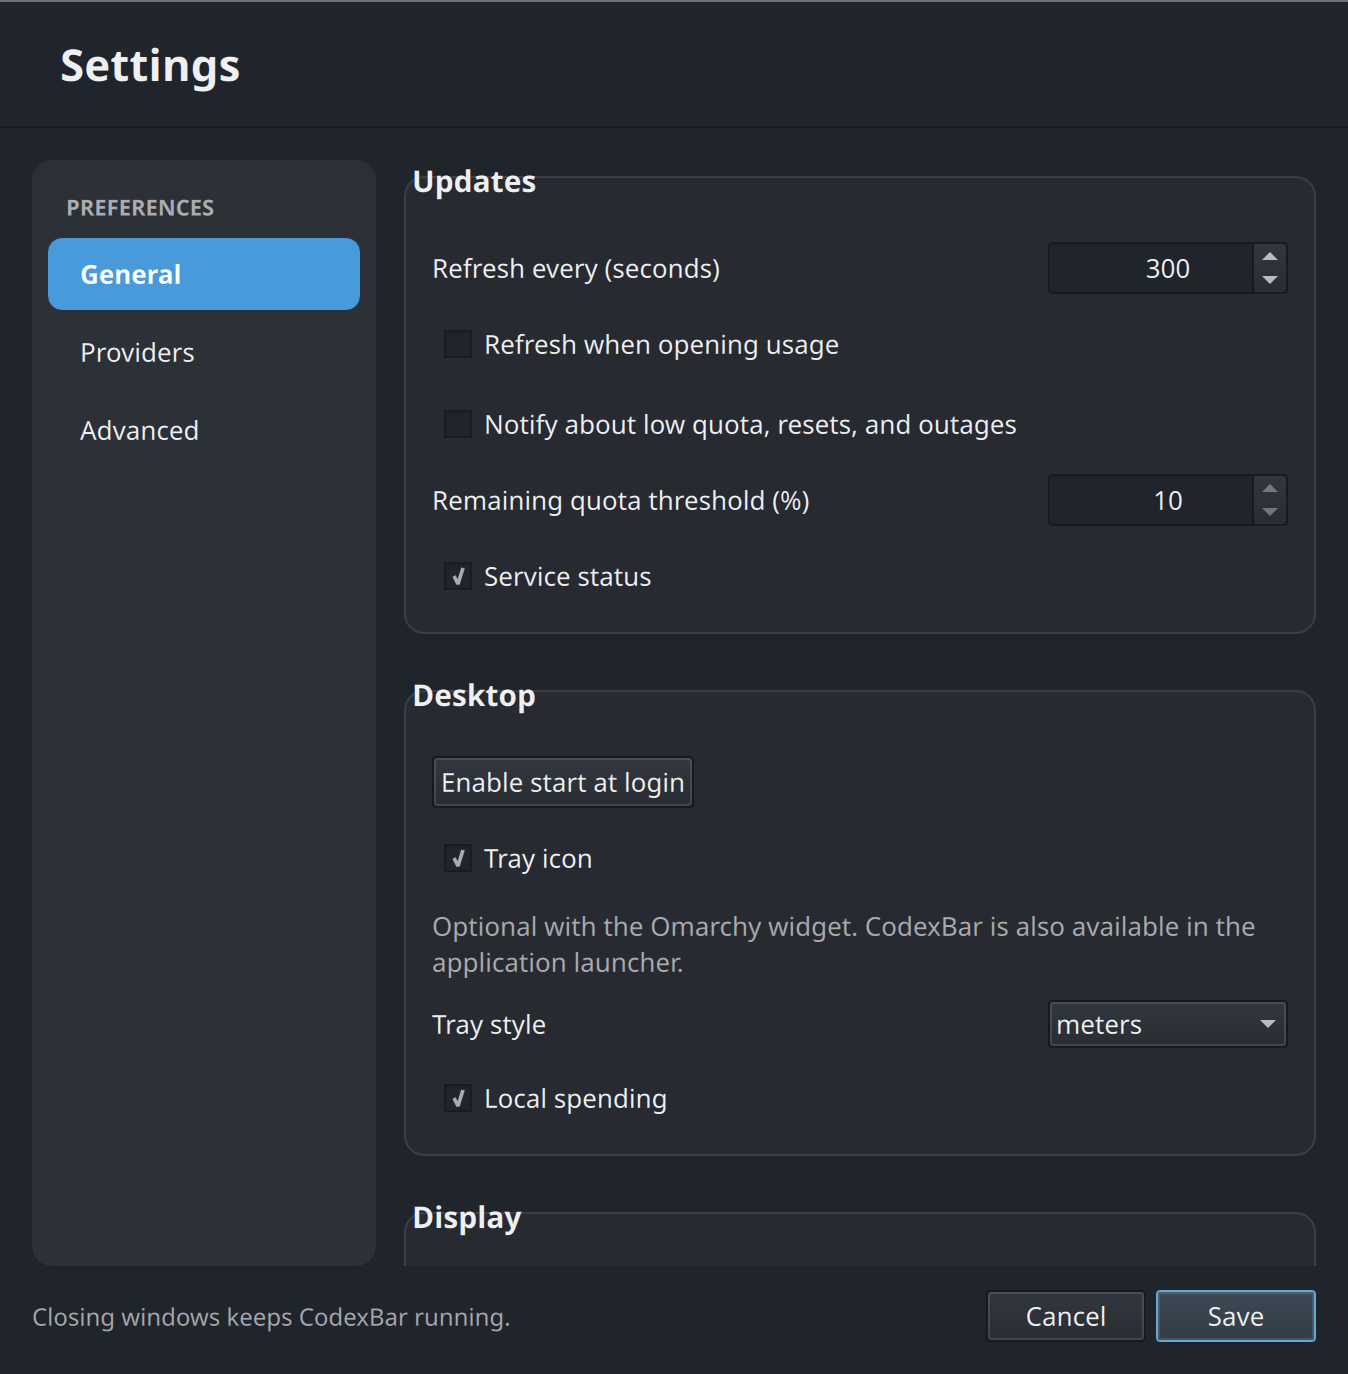
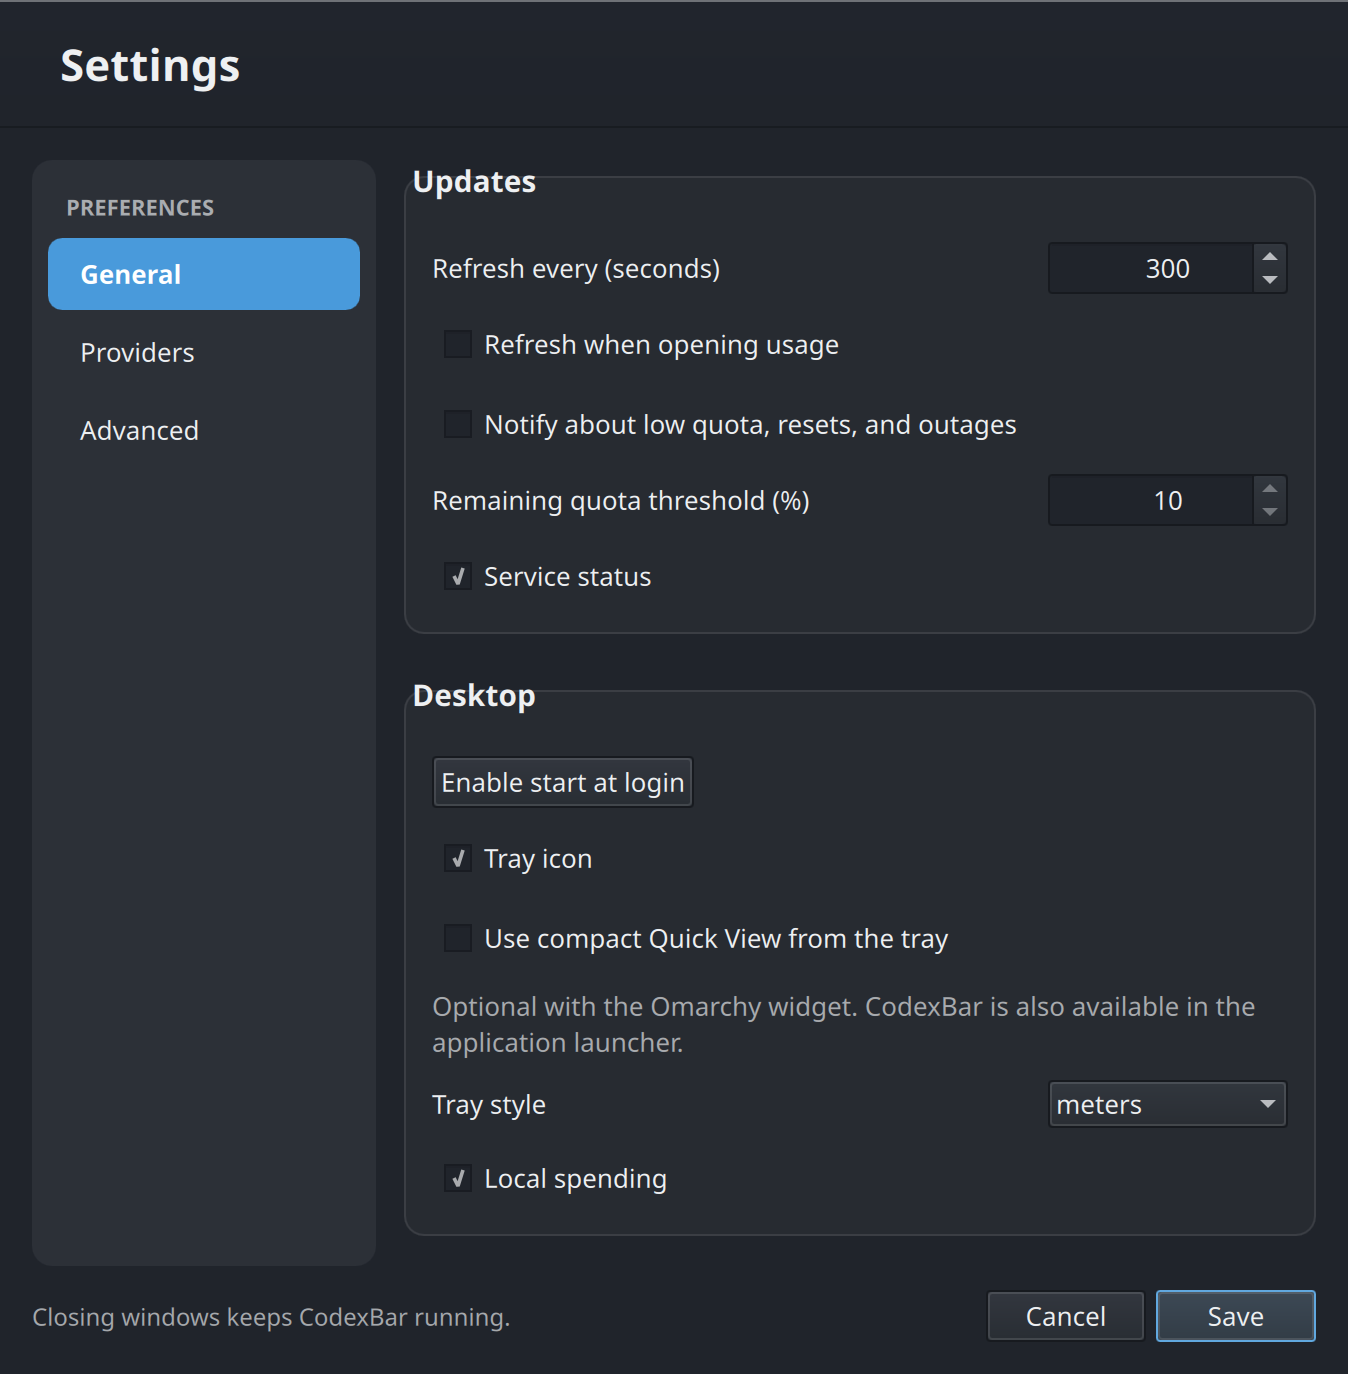
Make Linux Quick View opt-in

diff --git a/Integrations/Linux/qml/SettingsWindow.qml b/Integrations/Linux/qml/SettingsWindow.qml
@@ -41,7 +41,7 @@ ApplicationWindow {
         reset.currentIndex = reset.model.indexOf(s.resetDisplay);
         trayStyle.currentIndex = trayStyle.model.indexOf(s.trayStyle);
         theme.checked = s.followOmarchyTheme; pace.checked = s.showPace; warnings.checked = s.warningColors;
-        refreshOnOpen.checked = s.refreshOnOpen;
+        refreshOnOpen.checked = s.refreshOnOpen; compactQuickView.checked = s.compactQuickView;
         tray.checked = s.showTray; executable.text = s.executable; feedback = "";
     }
     Shortcut { sequence: "Escape"; onActivated: window.hide() }
@@ -167,6 +167,7 @@ ApplicationWindow {
                                 onClicked: desktop.setLaunchAtLogin(!desktop.launchAtLogin)
                             }
                             Option { id: tray; text: "Tray icon" }
+                            Option { id: compactQuickView; text: "Use compact Quick View from the tray" }
                             Label { text: "Optional with the Omarchy widget. CodexBar is also available in the application launcher."; Layout.fillWidth: true; wrapMode: Text.Wrap; opacity: 0.65 }
                             RowLayout {
                                 Layout.fillWidth: true
@@ -220,7 +221,8 @@ ApplicationWindow {
                         notifyThreshold: threshold.value, refreshSeconds: interval.value,
                         providerOrder: window.providerOrder, quotaDisplay: quota.currentText, resetDisplay: reset.currentText,
                         followOmarchyTheme: theme.checked, showPace: pace.checked, warningColors: warnings.checked, trayStyle: trayStyle.currentText,
-                        refreshOnOpen: refreshOnOpen.checked, showTray: tray.checked, executable: executable.text.trim()})) window.feedback = "Settings saved";
+                        refreshOnOpen: refreshOnOpen.checked, showTray: tray.checked, compactQuickView: compactQuickView.checked,
+                        executable: executable.text.trim()})) window.feedback = "Settings saved";
                 }
             }
         }

diff --git a/Integrations/Linux/qml/QuickView.qml b/Integrations/Linux/qml/QuickView.qml
@@ -357,7 +357,7 @@ ApplicationWindow {
                         width: parent.width
                         spacing: 8
                         Rectangle { Layout.fillWidth: true; height: 1; color: window.dividerColor }
-                        Label { text: "Cost"; color: window.primaryText; font.pixelSize: 15; font.weight: Font.DemiBold }
+                        Label { text: "Cost across accounts"; color: window.primaryText; font.pixelSize: 15; font.weight: Font.DemiBold }
                         Label {
                             text: window.selectedCost ? "Today " + Usage.money(window.selectedCost.today) +
                                 "  ·  Last 30 days " + Usage.money(window.selectedCost.month) : "Reading local history…"

diff --git a/Integrations/Linux/qml/Main.qml b/Integrations/Linux/qml/Main.qml
@@ -9,8 +9,8 @@ QtObject {
         target: desktop
         function onWindowRequested(page) {
             var target = page === "settings" ? root.preferences :
-                page === "usage" ? root.quickView : root.dashboard;
-            if (page === "dashboard" || page === "spending")
+                page === "quick-view" ? root.quickView : root.dashboard;
+            if (page === "usage" || page === "dashboard" || page === "spending")
                 root.dashboard.selectedTab = page === "spending" ? 1 : 0;
             target.show();
             target.raise();

diff --git a/Integrations/Linux/DesktopController.cpp b/Integrations/Linux/DesktopController.cpp
@@ -98,7 +98,7 @@ bool DesktopController::validate(QVariantMap &values) {
         !QStringList{"meters", "icon"}.contains(values.value("trayStyle").toString())) {
         m_configError = "Unsupported display preference."; return false;
     }
-    for (const auto &key : {"allAccounts", "showIdentity", "showCosts", "showStatus", "notifications", "showTray", "refreshOnOpen", "showPace", "warningColors", "followOmarchyTheme"})
+    for (const auto &key : {"allAccounts", "showIdentity", "showCosts", "showStatus", "notifications", "showTray", "compactQuickView", "refreshOnOpen", "showPace", "warningColors", "followOmarchyTheme"})
         values[key] = values.value(key).toBool();
     return true;
 }
@@ -106,7 +106,7 @@ bool DesktopController::validate(QVariantMap &values) {
 void DesktopController::loadSettings(const QString &cliOverride) {
     m_settings = {{"executable", "codexbar"}, {"provider", "codex"}, {"source", "auto"},
         {"refreshSeconds", 300}, {"accountIndex", 0}, {"notifyThreshold", 10}, {"allAccounts", false},
-        {"showIdentity", false}, {"showCosts", true}, {"showStatus", true}, {"notifications", false}, {"showTray", true}, {"refreshOnOpen", false}, {"providerOrder", QStringList{}},
+        {"showIdentity", false}, {"showCosts", true}, {"showStatus", true}, {"notifications", false}, {"showTray", true}, {"compactQuickView", false}, {"refreshOnOpen", false}, {"providerOrder", QStringList{}},
         {"quotaDisplay", "remaining"}, {"resetDisplay", "countdown"}, {"showPace", true},
         {"warningColors", true}, {"trayStyle", "meters"}, {"followOmarchyTheme", false}};
     m_configPath = QStandardPaths::writableLocation(QStandardPaths::GenericConfigLocation) + "/codexbar/linux.json";
@@ -288,9 +288,9 @@ void DesktopController::copySummary() {
 
 void DesktopController::showWindow(const QString &page) {
     if (page == "spending" && QDateTime::currentMSecsSinceEpoch() - m_costUpdated > 300000) refreshCosts();
-    if (page == "usage" && m_settings.value("showCosts").toBool() &&
+    if (page == "quick-view" && m_settings.value("showCosts").toBool() &&
         QDateTime::currentMSecsSinceEpoch() - m_costUpdated > 300000) refreshCosts();
-    if ((page == "usage" || page == "dashboard") && m_settings.value("refreshOnOpen").toBool()) refresh();
+    if ((page == "usage" || page == "dashboard" || page == "quick-view") && m_settings.value("refreshOnOpen").toBool()) refresh();
     emit windowRequested(page);
 }
 
@@ -358,7 +358,7 @@ bool DesktopController::listen(const QString &socketPath) {
                     response = {{"ok", ok}, {"enabled", launchAtLogin()}};
                 }
                 else if (command == "refresh") { refresh(); refreshCosts(); }
-                else if (command == "settings" || command == "usage" || command == "dashboard" || command == "spending") showWindow(command);
+                else if (command == "settings" || command == "usage" || command == "dashboard" || command == "spending" || command == "quick-view") showWindow(command);
                 else if (command == "configure" && request.value("settings").isObject()) {
                     const bool ok = saveSettings(request.value("settings").toObject().toVariantMap());
                     response = {{"ok", ok}, {"error", m_configError}};

diff --git a/Integrations/Linux/main.cpp b/Integrations/Linux/main.cpp
@@ -79,14 +79,14 @@ int main(int argc, char **argv) {
     QCommandLineParser parser;
     parser.setApplicationDescription("CodexBar desktop for Linux · Qt windows and optional tray");
     parser.addHelpOption(); parser.addVersionOption();
-    for (const auto &name : {"snapshot", "refresh", "settings", "spending", "dashboard", "usage", "quit", "background", "no-tray"})
+    for (const auto &name : {"snapshot", "refresh", "settings", "spending", "dashboard", "usage", "quick-view", "quit", "background", "no-tray"})
         parser.addOption(QCommandLineOption(name, QString("%1 the running desktop app").arg(name)));
     parser.addOption(QCommandLineOption("autostart", "Set login startup: enable, disable, status", "action"));
     parser.addOption(QCommandLineOption("configure", "Update desktop settings through local IPC", "json"));
     parser.addOption(QCommandLineOption("cli", "CodexBar CLI executable for a new instance", "path"));
     parser.process(*application);
     QString command = "usage";
-    for (const auto &name : {"background", "usage", "settings", "spending", "dashboard", "refresh", "snapshot", "quit", "configure", "autostart"})
+    for (const auto &name : {"background", "usage", "quick-view", "settings", "spending", "dashboard", "refresh", "snapshot", "quit", "configure", "autostart"})
         if (parser.isSet(name)) command = name;
     const bool clientOnly = QStringList{"snapshot", "refresh", "quit", "configure", "autostart"}.contains(command);
     const bool noTray = parser.isSet("no-tray");
@@ -176,7 +176,7 @@ int main(int argc, char **argv) {
     if (engine.rootObjects().isEmpty()) return 1;
     QSystemTrayIcon tray(QIcon(":/icon.svg"));
     QMenu menu;
-    menu.addAction("Quick View", &controller, [&controller] { controller.showWindow("usage"); });
+    menu.addAction("Quick View", &controller, [&controller] { controller.showWindow("quick-view"); });
     menu.addAction("Usage & Spend…", &controller, [&controller] { controller.showWindow("dashboard"); });
     menu.addAction("Settings…", &controller, [&controller] { controller.showWindow("settings"); });
     menu.addSeparator();
@@ -184,7 +184,8 @@ int main(int argc, char **argv) {
     menu.addAction("Quit CodexBar", &app, &QCoreApplication::quit);
     tray.setContextMenu(&menu);
     QObject::connect(&tray, &QSystemTrayIcon::activated, &controller, [&controller](QSystemTrayIcon::ActivationReason reason) {
-        if (reason == QSystemTrayIcon::Trigger || reason == QSystemTrayIcon::DoubleClick) controller.showWindow("usage");
+        if (reason == QSystemTrayIcon::Trigger || reason == QSystemTrayIcon::DoubleClick)
+            controller.showWindow(controller.settings().value("compactQuickView").toBool() ? "quick-view" : "usage");
     });
     auto updateTray = [&] {
         tray.setVisible(!noTray && controller.settings().value("showTray").toBool());

diff --git a/Integrations/Linux/tests/test_desktop.py b/Integrations/Linux/tests/test_desktop.py
@@ -199,13 +199,19 @@ else:
         self.assertTrue(value['stale'])
         self.assertEqual(value['summary'], 'CX 60%')
 
-    def test_quick_view_scans_cost_once_and_refresh_on_open_is_optional(self):
+    def test_quick_view_is_explicit_and_scans_cost_only_when_opened(self):
         calls = self.root / 'calls.jsonl'
+        self.assertFalse((self.root / 'config/codexbar/linux.json').exists())
         self.client('--usage')
+        self.assertEqual([json.loads(line)['args'][0] for line in calls.read_text().splitlines()], ['usage'])
+        self.client('--quick-view')
         self.wait_for(lambda value: value.get('costProviders') == 1 and not value['costBusy'])
         self.assertEqual([json.loads(line)['args'][0] for line in calls.read_text().splitlines()],
                          ['usage', 'cost'])
-        self.client('--configure', '{"refreshOnOpen":true}')
+        self.client('--configure', '{"compactQuickView":true,"refreshOnOpen":true}')
+        self.assertTrue(json.loads((self.root / 'config/codexbar/linux.json').read_text())['compactQuickView'])
+        self.client('--configure', '{"showCosts":false}')
+        self.client('--configure', '{"showCosts":true}')
         self.wait_for(lambda value: bool(value.get('entries')) and not value['busy'])
         previous = len(calls.read_text().splitlines())
         self.client('--usage')
@@ -214,6 +220,10 @@ else:
             time.sleep(0.05)
         self.assertEqual(len(calls.read_text().splitlines()), previous + 1)
         self.assertEqual(json.loads(calls.read_text().splitlines()[-1])['args'][0], 'usage')
+        self.assertNotIn('cost', [json.loads(line)['args'][0] for line in calls.read_text().splitlines()[previous:]])
+        self.client('--quick-view')
+        self.wait_for(lambda value: value.get('costProviders') == 1 and not value['costBusy'])
+        self.assertIn('cost', [json.loads(line)['args'][0] for line in calls.read_text().splitlines()[previous + 1:]])
 
     def test_failed_spending_preserves_previous_scan(self):
         self.client('--spending')

diff --git a/Integrations/Linux/README.md b/Integrations/Linux/README.md
@@ -1,6 +1,6 @@
 # CodexBar for Linux
 
-A Qt 6 desktop app with a compact Quick View, separate Usage & Spend and Settings
+A Qt 6 desktop app with an opt-in compact Quick View, separate Usage & Spend and Settings
 windows, an optional system tray icon, and a launcher entry. The Swift `codexbar` CLI owns provider
 fetching and authentication. The desktop owns polling, settings, notifications,
 and a private local socket for desktop adapters. No HTTP server is needed.
@@ -185,10 +185,12 @@ The app does not read terminal output or store credentials. Finish the flow, the
 refresh usage. These controls manage the active CLI session; browser imports,
 token-account editing and Mac managed profiles are not implemented here.
 
-Quick View opens by default and from the tray. It presents an Overview and provider
-tabs with the same provider icons used by the macOS menu, compact quota meters,
+Ordinary launch and `--usage` open the full Usage & Spend window. Quick View opens
+with `--quick-view`, from the tray menu, or by clicking the tray icon after enabling
+"Use compact Quick View from the tray" in Settings (off by default). It presents
+an Overview and provider tabs with the same provider icons used by the macOS menu, compact quota meters,
 reset times, pace, and optional local cost. The footer opens the full Usage & Spend
-window, Settings, About, or Quit. `--dashboard` opens the full Usage & Spend window
+window, Settings, About, or Quit. `--dashboard` also opens the full Usage & Spend window
 directly; `--spending` opens its Spending tab. The full Usage & Spend window retains
 generic provider details and charts. Unknown values stay unknown. Identity is hidden by default. Display preferences control reset countdowns,
 absolute times, pace visibility, and low-quota colors. The tray can show two quota
@@ -207,7 +209,7 @@ are not invoices. Opening spending scans independently of quota polling, with a
 five-minute cache; Refresh forces a new scan.
 
 Quota polling defaults to five minutes. Optional refresh-on-open updates usage
-when Quick View or the dashboard opens. Refresh and Ctrl+R update the selected tab independently;
+when Quick View or the full usage window opens. Refresh and Ctrl+R update the selected tab independently;
 Ctrl+, opens Settings, and Ctrl+Q quits. Queries never overlap within each stream,
 stop after 60 seconds, and cap output at 8 MiB. Failed refreshes retain previous
 results with a stale indicator. Changing selection rejects old in-flight results.
@@ -226,6 +228,7 @@ fix or remove the file and restart. Authentication remains in the CLI's stores.
 ```sh
 codexbar-linux --background
 codexbar-linux --usage
+codexbar-linux --quick-view
 codexbar-linux --dashboard
 codexbar-linux --settings
 codexbar-linux --spending
